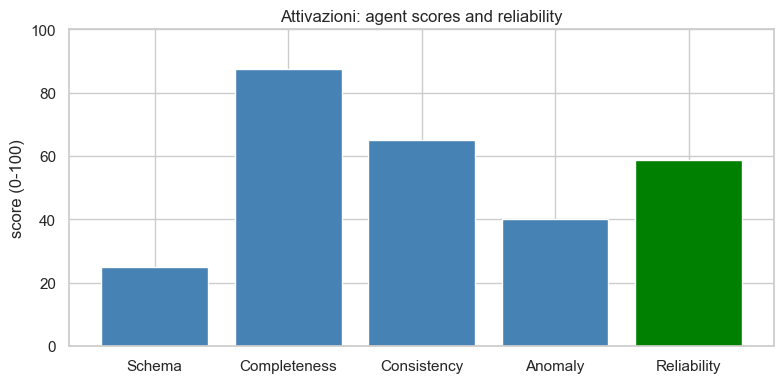
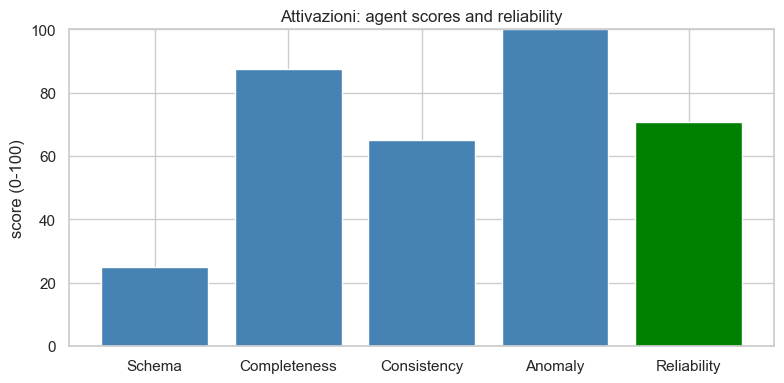
More touchups

Changed region(s): [[0.6429, 0.0574, 0.949, 0.5744]]

diff --git a/README.md b/README.md
@@ -30,7 +30,7 @@ $$	{reliability score} = 0.2 	{schema score} + 0.3 {completeness score} + 0.3 {c
 If any score is missing, a default value of 50 is used. The agent also writes a plain language summary of the dataset quality. A "fix_dataset" function automatically applies corrections: removing duplicates, dropping sparse columns, converting numeric-like strings, imputing missing values (median for numeric columns, mode for categorical), standardizing string casing to title case.
 
 An optional LLM integration (local Ollama with `llama3` or Groq API with `llama-3.1-8b-instant`) can enhance the natural language output of the Remediation Agent. If neither is available, the system automatically falls back to rule-based text generation - the pipeline always runs completely without any LLM.
-li
+
 The pipeline follows a **Supervisor Architecture**: the `run_pipeline` manager function calls each agent in sequence and passes all results to the Remediation Agent.
 
 ![Reliability comparison across all datasets](images/reliability_comparison.png)
@@ -43,7 +43,7 @@ To reproduce this project, install the required libraries with:
 pip install -r requirements.txt
 ```
 
-No GPU or special hardware is required. Tested with Python 3.14.2 on macOS. The optional LLM integration requires either [Ollama](https://ollama.com) running locally with a `llama3` model, or a `GROQ_API_KEY` environment variable set with access to `mixtral-8x7b-32768`.
+No GPU or special hardware is required. Tested with Python 3.14.2 on macOS. The optional LLM integration requires either [Ollama](https://ollama.com) running locally with a `llama3` model, or a `GROQ_API_KEY` environment variable set with access to `llama-3.1-8b-instant`.
 
 The real NoiPA datasets (spesa.csv and attivazioniCessazioni.csv) must be placed inside the "datasets/" folder before running the notebook. These files are already included in the GitHub repository, with cloned repository, no action is needed.
 
